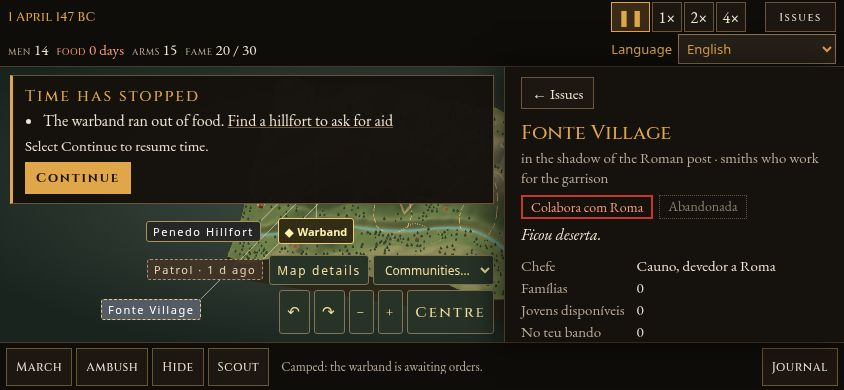
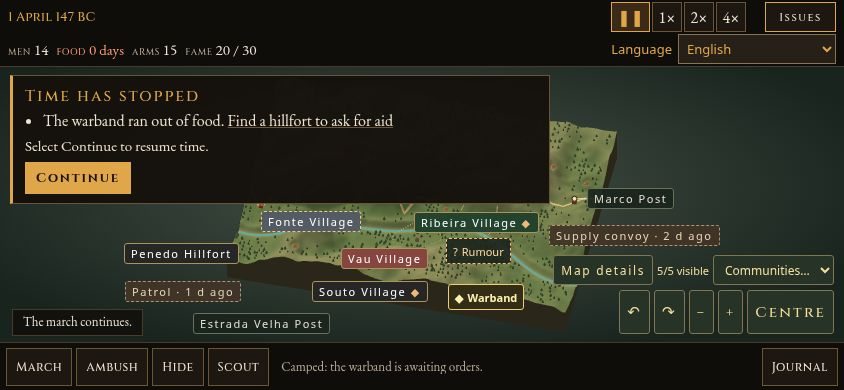
Keep community labels visible during campaign interruptions

Changed region(s): [[0.0308, 0.1538, 1.0, 0.8923]]

diff --git a/src/campaign-map-3d/scene.js b/src/campaign-map-3d/scene.js
@@ -4,7 +4,7 @@ import { createMapProjection, createCampaignTerrain, subdivideLine } from './ter
 import { levelRoundhouseSite, loadRoundhouse, roundhousePlacement } from './roundhouse.js';
 import { generateVegetation } from './strategic.js';
 import { disposeGroup, makeForest, makeIntelligence, makePlanning } from './overlays.js';
-import { labelLeader, pickStrategicPoint, positionLabels } from './interaction.js';
+import { leaderPath, pickStrategicPoint, positionLabels } from './interaction.js';
 
 function indexedGeometry(positions, indices) {
   const geometry = new THREE.BufferGeometry();
@@ -198,6 +198,10 @@ export function createCampaignMapScene(canvas, labelLayer, onSelect, i18n) {
   function layoutLabels() {
     const area = canvas.getBoundingClientRect();
     const scope = canvas.closest('#map') || canvas.parentElement;
+    const indicator = campaignLabels && scope.querySelector('#m-community-count');
+    const total = labels.filter(({ marker }) => marker.userData.place?.community).length;
+    if (indicator && (!indicator.textContent || labelLocale !== i18n.locale))
+      indicator.textContent = i18n.t('map.communitiesVisible', { count: 0, total });
     const reserved = [...scope.querySelectorAll('[data-reserve-labels]:not(.faded)')].map(element => {
       const rect = element.getBoundingClientRect();
       return { x: rect.left - area.left, y: rect.top - area.top, w: rect.width, h: rect.height };
@@ -238,26 +242,31 @@ export function createCampaignMapScene(canvas, labelLayer, onSelect, i18n) {
       projected.y += marker.userData.lift;
       projected.project(camera);
       const rank = campaignLabels
-        ? Math.max(priority, force ? 11 : 0, decision ? 10 : 0, highlighted ? 9 : 0)
+        ? Math.max(priority, place?.community ? 12 : 0, force ? 11 : 0, decision ? 13 : 0, highlighted ? 14 : 0)
         : highlighted ? 10 : priority;
       return { id: key, x: (projected.x + 1) * screenWidth / 2, y: (1 - projected.y) * screenHeight / 2,
         w: element.offsetWidth, h: element.offsetHeight, priority: rank,
         reposition: campaignLabels && (essential || label === mainRumor) };
     });
     const boxes = positionLabels(candidates.filter(Boolean), screenWidth, screenHeight, reserved);
-    for (const [i, { element, key, line }] of visibleLabels.entries()) {
+    if (campaignLabels) {
+      const communities = visibleLabels.filter(({ marker }) => marker.userData.place?.community);
+      const count = communities.filter(({ key }) => boxes.has(key)).length;
+      if (indicator) indicator.textContent = i18n.t('map.communitiesVisible', { count, total: communities.length });
+    }
+    for (const [i, { element, key, line, origin }] of visibleLabels.entries()) {
       const box = boxes.get(key);
       element.style.visibility = box ? 'visible' : 'hidden';
       if (box) element.style.transform = `translate(${Math.round(box.x)}px, ${Math.round(box.y)}px)`;
       if (!line) continue;
       const anchor = candidates[i];
-      const end = box && labelLeader(anchor, box);
-      line.style.visibility = end ? 'visible' : 'hidden';
-      if (!end) continue;
-      line.setAttribute('x1', anchor.x);
-      line.setAttribute('y1', anchor.y);
-      line.setAttribute('x2', end.x);
-      line.setAttribute('y2', end.y);
+      const obstacles = [...reserved, ...[...boxes].filter(([id]) => id !== key).map(([, value]) => value)];
+      const path = box && anchor && leaderPath(anchor, box, obstacles);
+      line.style.visibility = origin.style.visibility = path ? 'visible' : 'hidden';
+      if (!path) continue;
+      line.setAttribute('d', path);
+      origin.setAttribute('cx', anchor.x);
+      origin.setAttribute('cy', anchor.y);
     }
   }
 
@@ -334,13 +343,15 @@ export function createCampaignMapScene(canvas, labelLayer, onSelect, i18n) {
       element.dataset.id = selection.id;
       element.addEventListener('click', event => select(selection, event.detail ? event : undefined));
     }
-    const line = connect ? document.createElementNS(svg, 'line') : null;
-    return { marker, element, line, key: selection ? `${selection.type}:${selection.id}` : key };
+    const line = connect ? document.createElementNS(svg, 'path') : null;
+    const origin = connect ? document.createElementNS(svg, 'circle') : null;
+    if (origin) origin.setAttribute('r', '2.5');
+    return { marker, element, line, origin, key: selection ? `${selection.type}:${selection.id}` : key };
   }
 
   function mountLabels() {
     const all = partyLabel ? [...labels, partyLabel] : labels;
-    leaders.replaceChildren(...all.map(label => label.line).filter(Boolean));
+    leaders.replaceChildren(...all.flatMap(label => [label.line, label.origin]).filter(Boolean));
     labelLayer.replaceChildren(leaders, ...all.map(label => label.element));
   }
 

diff --git a/src/campaign-map-3d/interaction.js b/src/campaign-map-3d/interaction.js
@@ -26,7 +26,7 @@ export function positionLabels(labels, width, height, reserved = []) {
       [x - w - 12, y - h / 2], [x - w / 2, y + 14]];
     // Essential labels can move farther from their marker, with a leader line.
     if (label.reposition) {
-      for (const offset of [22, 44, 66, 88, 110]) {
+      for (const offset of [22, 44, 66, 88, 110, 132, 154, 176, 198]) {
         positions.push([x - w / 2, y - h - offset], [x - w / 2, y + offset]);
         for (const left of [x - w - offset, x + offset]) {
           positions.push([left, y - h / 2], [left, y - h - offset], [left, y + offset]);
@@ -50,4 +50,25 @@ export function labelLeader(anchor, box) {
   const x = Math.max(box.x, Math.min(anchor.x, box.x + box.w));
   const y = Math.max(box.y, Math.min(anchor.y, box.y + box.h));
   return Math.hypot(anchor.x - x, anchor.y - y) >= 10 ? { x, y } : null;
+}
+
+/** Prefer a short unobstructed connector. A hidden connector is clearer than one crossing a label. */
+export function leaderPath(anchor, box, obstacles) {
+  const end = labelLeader(anchor, box);
+  if (!end) return null;
+  const clear = points => obstacles.every(obstacle => points.slice(1).every((point, index) => {
+    const start = points[index];
+    const steps = Math.ceil(Math.hypot(point.x - start.x, point.y - start.y) / 4);
+    for (let step = 1; step < steps; step++) {
+      const x = start.x + (point.x - start.x) * step / steps;
+      const y = start.y + (point.y - start.y) * step / steps;
+      if (x >= obstacle.x - 2 && x <= obstacle.x + obstacle.w + 2 &&
+          y >= obstacle.y - 2 && y <= obstacle.y + obstacle.h + 2) return false;
+    }
+    return true;
+  }));
+  const routes = [[anchor, end], [anchor, { x: anchor.x, y: end.y }, end],
+    [anchor, { x: end.x, y: anchor.y }, end]];
+  const route = routes.find(clear);
+  return route?.map((point, index) => `${index ? 'L' : 'M'}${point.x},${point.y}`).join(' ') ?? null;
 }

diff --git a/src/campaign-map-3d/campaign-view.css b/src/campaign-map-3d/campaign-view.css
@@ -32,6 +32,7 @@
   padding: 3px 7px; background: #283328; color: #f6df9d; border: 1px solid #837452; border-radius: 3px;
 }
 #campaign-map-3d .map-access :is(button, select) { font: 12px system-ui, sans-serif; min-height: 30px; }
+#m-community-count { align-self: center; font: 11px system-ui, sans-serif; font-variant-numeric: tabular-nums; color: #f6df9d; white-space: nowrap; }
 #campaign-map-3d .map-access select { max-width: min(180px, 48vw); }
 #campaign-map-3d .map-access [aria-pressed="true"] { border-color: #edd598; background: #43513f; }
 #campaign-map-3d .map-preview {
@@ -40,6 +41,20 @@
 }
 #campaign-map-3d .map-preview:empty { display: none; }
 #map #m-int { max-height: calc(100% - var(--map-compact-header, 48px) - var(--map-compact-footer, 56px) - 104px); }
+@media (max-width: 480px) {
+  #map { --map-compact-header: 104px; }
+  #map #mtop { height: 104px; display: grid; grid-template-columns: minmax(0, 1fr) auto; grid-template-rows: 32px 32px 32px; column-gap: 4px; }
+  #map #mtop .when { grid-area: 1 / 1; }
+  #map #m-time { grid-area: 2 / 1; margin: 0; }
+  #map #m-side-toggle { grid-area: 1 / 2; }
+  #map #mtop .res { grid-area: 3 / 1 / 4 / 3; gap: 4px; }
+  #map #mtop .res b { margin-right: 2px; }
+  #map #mtop .res span { font-size: 13px; }
+  #map #mtop .map-language { grid-area: 2 / 2; }
+  #map #mtop .map-language > span { display: none; }
+  #map #mtop .map-language select { max-width: 154px; }
+  #map :is(#mapcv, #campaign-map-3d, #mside) { top: 104px; height: calc(100% - 152px); }
+}
 @media (min-width: 620px) and (max-width: 900px), (min-width: 620px) and (max-height: 480px) {
   #map:has(#mside:not(.closed)) #campaign-map-3d :is(.map-dock, .map-preview) { right: 350px; }
 }

diff --git a/src/campaign-map-3d/tactical-labels.css b/src/campaign-map-3d/tactical-labels.css
@@ -1,5 +1,6 @@
 .map-leaders { position: absolute; inset: 0; width: 100%; height: 100%; pointer-events: none; }
-.map-leaders line { stroke: #e2d9b7; stroke-width: 1; stroke-opacity: 0.72; }
+.map-leaders path { fill: none; stroke: #f1ddb0; stroke-width: 1.4; stroke-opacity: 0.85; }
+.map-leaders circle { fill: #f1ddb0; stroke: #29231c; stroke-width: 1; }
 :is(#campaign-map-3d, #map-labels) .map-label:is(.party-label, .rumor-zone, .scouted-zone) {
   display: inline-flex; align-items: center; gap: 4px; pointer-events: none; letter-spacing: normal;
 }

diff --git a/index.html b/index.html
@@ -337,6 +337,7 @@
     <div class="map-dock" data-reserve-labels>
       <div class="map-access">
         <button type="button" id="m-map-details" data-i18n="map.mapDetails" aria-pressed="false">Detalhes do mapa</button>
+        <span id="m-community-count" aria-live="polite"></span>
         <select id="m-community" aria-label="Selecionar comunidade" data-i18n-aria="map.selectCommunity"></select>
       </div>
       <div class="map-controls" role="group" aria-label="Câmara do mapa" data-i18n-aria="map.a11y.camera">

diff --git a/src/i18n/catalogs/pt-PT/map.js b/src/i18n/catalogs/pt-PT/map.js
@@ -109,6 +109,7 @@ export default {
   "fameGoal": "A vitória no fim do ano exige {men} homens e {fame} de fama.",
   "mapDetails": "Detalhes do mapa",
   "communitiesSelect": "Comunidades…",
+  "communitiesVisible": "{count}/{total} visíveis",
   "selectCommunity": "Selecionar comunidade",
   "inactive.queimada": "queimada",
   "inactive.abandonada": "abandonada",

diff --git a/src/i18n/catalogs/en/map.js b/src/i18n/catalogs/en/map.js
@@ -109,6 +109,7 @@ export default {
   "fameGoal": "End-of-year victory requires {men} men and {fame} fame.",
   "mapDetails": "Map details",
   "communitiesSelect": "Communities…",
+  "communitiesVisible": "{count}/{total} visible",
   "selectCommunity": "Select a community",
   "inactive.queimada": "burned",
   "inactive.abandonada": "abandoned",

diff --git a/docs/playtest/m3.2b2-mapa.md b/docs/playtest/m3.2b2-mapa.md
@@ -16,6 +16,7 @@ O ensaio usa o mesmo cenário v1 antes e depois, com a semente 1234 no dia 30, a
 | 1280×800 | 22 → 11 | 3/5 → 5/5 | 0 / 0 | [Antes](../../production/qa/evidence/m3-2-b2-map/before-1280x800.jpg) · [Depois](../../production/qa/evidence/m3-2-b2-map/after-1280x800.jpg) |
 | 1024×600 | 17 → 11 | 3/5 → 5/5 | 0 / 0 | [Antes](../../production/qa/evidence/m3-2-b2-map/before-1024x600.jpg) · [Depois](../../production/qa/evidence/m3-2-b2-map/after-1024x600.jpg) |
 | 844×390 | 11 → 11 | 1/5 → 5/5 | 0 / 0 | [Antes](../../production/qa/evidence/m3-2-b2-map/before-844x390.jpg) · [Depois](../../production/qa/evidence/m3-2-b2-map/after-844x390.jpg) |
+| 432×390 | — → 9 | — → 5/5 | 0 / 0 | [Depois](../../production/qa/evidence/m3-2-b2-map/after-432x390.jpg) |
 
 Em todas as resoluções medidas ficaram visíveis o bando, os dois postos, as duas forças conhecidas e uma etiqueta de rumor. O contraste do branco nas cinco cores políticas variou entre **5,47:1 e 15,13:1**. [Medições antes](../../production/qa/evidence/m3-2-b2-map/before.json) · [Medições depois](../../production/qa/evidence/m3-2-b2-map/after.json) · [Contraste](../../production/qa/evidence/m3-2-b2-map/palette.json)
 
@@ -33,10 +34,28 @@ node tools/e2e-campaign-decisions.mjs
 node tools/e2e-campaign-playtest.mjs
 ```
 
-Para as capturas anteriores, indique o caminho de um checkout em `dd2e299` na variável `SENTINEL_MAP_BASELINE` e repita o ensaio de clareza com outro diretório de saída. [Configuração de Chromium e Playwright](tactical-browser.md)
+Para as capturas anteriores à primeira versão B2, indique o caminho de um checkout em `dd2e299` na variável `SENTINEL_MAP_BASELINE` e repita o ensaio de clareza com outro diretório de saída. Para reproduzir o bloqueador visual, use um checkout em `3ebac44`, defina também `SENTINEL_MAP_BLOCKER=1` e indique um diretório de saída. O ensaio grava `before-844x390-interruption.jpg` e `interruption.json`. [Configuração de Chromium e Playwright](tactical-browser.md)
 
 ## Compromissos
 
 A posição da câmara, a língua das etiquetas e os painéis abertos afetam o espaço disponível. Quando uma etiqueta fica fora de vista, o seletor mantém o acesso às cinco comunidades. Usam-se cores fixas por postura. Confiança e medo permanecem disponíveis no painel da comunidade. A reconstrução de marcadores continua a ocorrer quando muda o estado visual da povoação, por exemplo ao ficar abandonada. Uma mudança de postura atualiza a etiqueta existente.
 
 O visualizador autónomo conserva a sua apresentação completa e pode abrir gravações v1. A revisão integral do Claude não estava acessível. A implementação segue os requisitos da tarefa, o estado real da campanha e a referência visual do FreeBuff. [Protótipo FreeBuff](https://github.com/AntonioSCosta/Sentinel/tree/demo/playtest-clarity-m3-2-b/artifacts/playtest-clarity)
+
+## Revisão visual final do PR #37
+
+No cenário bloqueante, a faixa B1 e os controlos ocupavam zonas importantes da metade inferior e esquerda do mapa. O posicionador desistia de etiquetas essenciais depois de afastamentos de 110 px. As duas forças conhecidas tinham prioridade superior às comunidades. O ensaio original media 5/5 apenas com a faixa fechada. Na reprodução controlada com a faixa, a revisão anterior mostra 3/5, com Vau e Penedo sem etiqueta. A reprodução do FreeBuff também encontrou 3/5, com Vau e Souto ausentes noutra combinação de estado e seleção. [Antes com faixa](../../production/qa/evidence/m3-2-b2-map/before-844x390-interruption.jpg) · [Medição anterior](../../production/qa/evidence/m3-2-b2-map/before-interruption.json)
+
+As comunidades recebem agora prioridade sobre a informação militar nas colisões de etiquetas e podem procurar posições mais afastadas. Os marcadores militares 3D continuam presentes, e a vista medida a 844×390 conserva as duas etiquetas de força. As ligações são curtas quando possível. Uma ligação longa só aparece quando há um percurso sem atravessar outras etiquetas ou áreas reservadas. Um ponto marca a origem das ligações desenhadas. O seletor mostra a contagem calculada das etiquetas de comunidade efetivamente colocadas e mantém acesso direto às cinco, mesmo após zoom. [Depois com faixa](../../production/qa/evidence/m3-2-b2-map/after-844x390-interruption.jpg) · [Medição da faixa](../../production/qa/evidence/m3-2-b2-map/interruption.json)
+
+| Cenário Chromium | Comunidades | Forças com etiqueta | Sobreposições / cortes | HUD |
+| --- | ---: | ---: | ---: | --- |
+| 1440×900, 1280×800, 1024×600 | 5/5 | 2/2 | 0 / 0 | sem colisões |
+| 844×390, faixa fechada | 5/5 | 2/2 | 0 / 0 | sem colisões |
+| 844×390, faixa B1 aberta, gaveta fechada | 5/5 | 2/2 | 0 / 0 | sem colisões |
+| 432×390, faixa fechada | 5/5 | 1/2 | 0 / 0 | três linhas, sem colisões |
+| Semente 4711, 844×390 | 5/5 | variável com intel | 0 / 0 | sem colisões |
+
+A 432 px, uma etiqueta militar e a zona de rumor cedem espaço às comunidades. Os seus marcadores e relatos continuam na cena e no Diário. A contagem apresentada é de comunidades, não de ameaças. A disposição pode esconder outras etiquetas após zoom, mudança de idioma ou novas interrupções. O seletor permanece utilizável por teclado. O empacotamento continua a ser guloso e algumas etiquetas afastadas perdem a linha quando qualquer trajeto curto atravessaria outro rótulo. Esta solução preserva a associação pelo nome e pela seleção do marcador, com menos linhas cruzadas. [Medições gerais](../../production/qa/evidence/m3-2-b2-map/after.json) · [Semente 4711](../../production/qa/evidence/m3-2-b2-map/seed-4711.json) · [Captura 4711](../../production/qa/evidence/m3-2-b2-map/after-seed-4711.jpg)
+
+A cor e o estado acessível da etiqueta seguem a postura ou a situação do painel. A captura em inglês ainda contém texto português no conteúdo antigo do painel da comunidade, por exemplo «Colabora com Roma». O catálogo B2 traduz a descrição da etiqueta. Uma revisão de localização do painel completo fica pendente. [Captura inglesa](../../production/qa/evidence/m3-2-b2-map/after-844x390-interruption.jpg)
